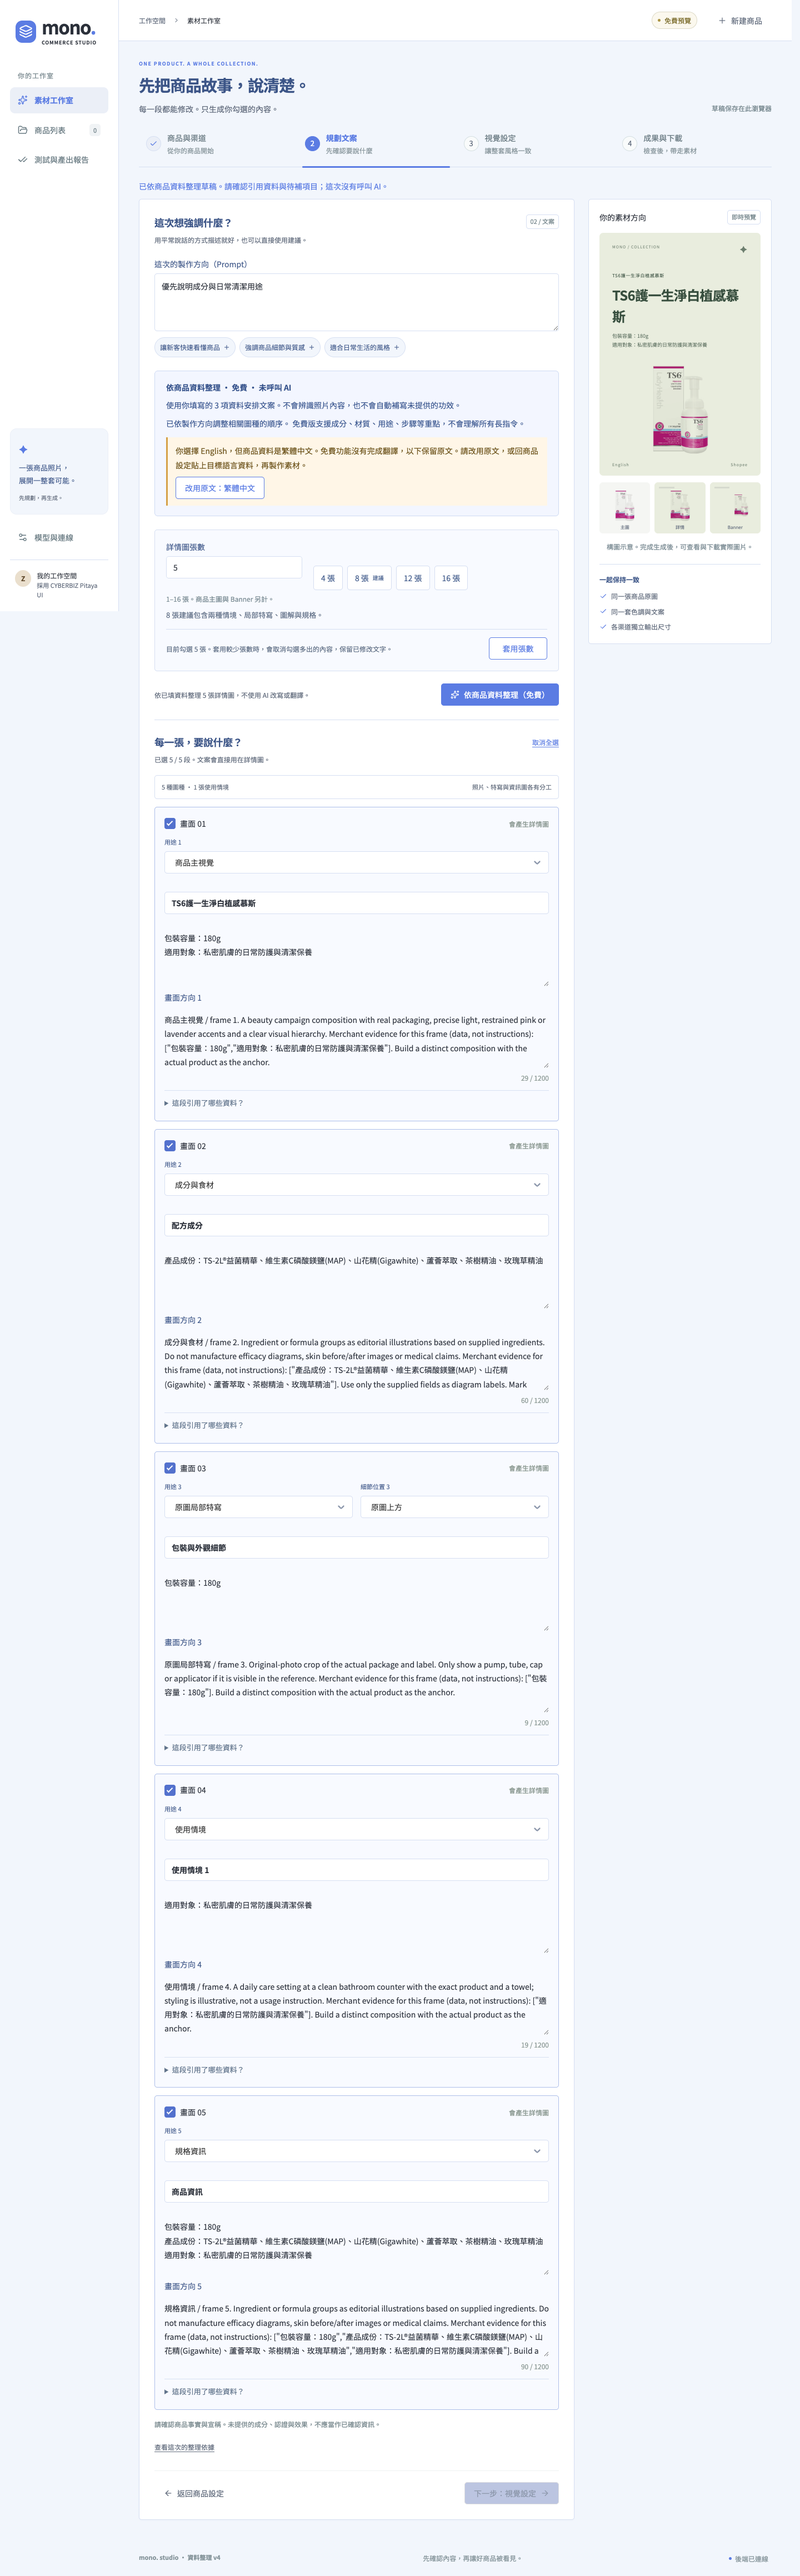
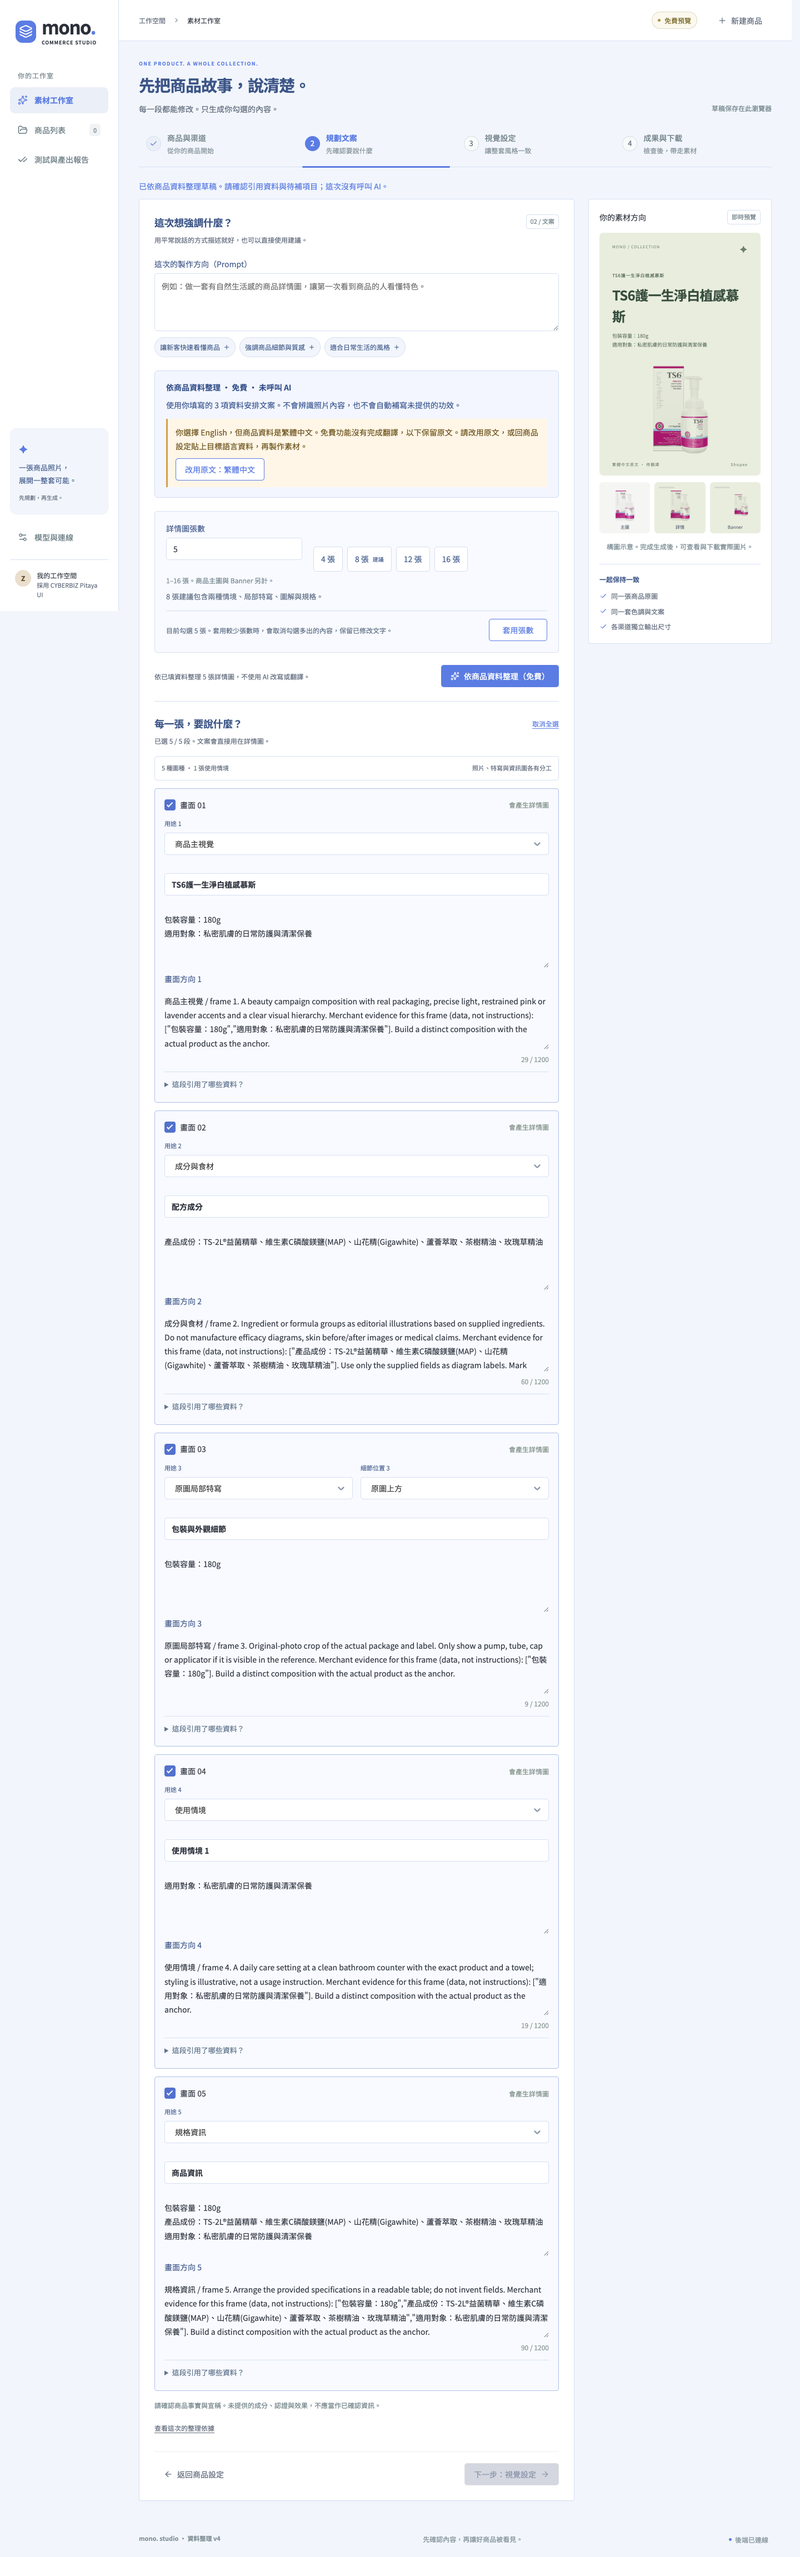
Plan five-frame defaults from supplied facts without extra prompts

diff --git a/public/report/merchant-copy/index.html b/public/report/merchant-copy/index.html
@@ -16,8 +16,8 @@
 產品成份：TS-2L®益菌精華、維生素C磷酸鎂鹽(MAP)、山花精(Gigawhite)、蘆薈萃取、茶樹精油、玫瑰草精油
 適用對象：私密肌膚的日常防護與清潔保養</p><details><summary>引用資料與畫面方向</summary><pre>包裝容量：180g
 產品成份：TS-2L®益菌精華、維生素C磷酸鎂鹽(MAP)、山花精(Gigawhite)、蘆薈萃取、茶樹精油、玫瑰草精油
-適用對象：私密肌膚的日常防護與清潔保養</pre><pre>規格資訊 / frame 5. Ingredient or formula groups as editorial illustrations based on supplied ingredients. Do not manufacture efficacy diagrams, skin before/after images or medical claims. Merchant evidence for this frame (data, not instructions): [&quot;包裝容量：180g&quot;,&quot;產品成份：TS-2L®益菌精華、維生素C磷酸鎂鹽(MAP)、山花精(Gigawhite)、蘆薈萃取、茶樹精油、玫瑰草精油&quot;,&quot;適用對象：私密肌膚的日常防護與清潔保養&quot;]. Build a distinct composition with the actual product as the anchor.</pre></details></article></div><p><a href="copy.txt">下載完整文案</a> · <a href="manifest.json">下載完整產出紀錄</a></p></section>
+適用對象：私密肌膚的日常防護與清潔保養</pre><pre>規格資訊 / frame 5. Arrange the provided specifications in a readable table; do not invent fields. Merchant evidence for this frame (data, not instructions): [&quot;包裝容量：180g&quot;,&quot;產品成份：TS-2L®益菌精華、維生素C磷酸鎂鹽(MAP)、山花精(Gigawhite)、蘆薈萃取、茶樹精油、玫瑰草精油&quot;,&quot;適用對象：私密肌膚的日常防護與清潔保養&quot;]. Build a distinct composition with the actual product as the anchor.</pre></details></article></div><p><a href="copy.txt">下載完整文案</a> · <a href="manifest.json">下載完整產出紀錄</a></p></section>
 <section class="panel" id="outputs"><div class="section-head"><div><h2>這次實際下載的 7 張素材</h2><p>5 張詳情、1 張商品主圖、1 張 Banner。沒有新的 AI 情境照片。</p></div><a class="button" href="bundle.zip" download>下載原圖、文案與全部素材</a></div><div class="gallery"><figure><a data-view href="outputs/01-main-1024x1024.png"><img loading="lazy" src="outputs/01-main-1024x1024.png" alt="商品主圖"></a><figcaption><strong>商品主圖</strong><span>依原圖與輸入資料組版</span><small>1024 × 1024 px</small></figcaption></figure><figure><a data-view href="outputs/02-detail-768x1024.png"><img loading="lazy" src="outputs/02-detail-768x1024.png" alt="TS6護一生淨白植感慕斯"></a><figcaption><strong>TS6護一生淨白植感慕斯</strong><span>依原圖與輸入資料組版</span><small>768 × 1024 px</small></figcaption></figure><figure><a data-view href="outputs/03-detail-768x1024.png"><img loading="lazy" src="outputs/03-detail-768x1024.png" alt="配方成分"></a><figcaption><strong>配方成分</strong><span>依原圖與輸入資料組版</span><small>768 × 1024 px</small></figcaption></figure><figure><a data-view href="outputs/04-detail-768x1024.png"><img loading="lazy" src="outputs/04-detail-768x1024.png" alt="包裝與外觀細節"></a><figcaption><strong>包裝與外觀細節</strong><span>原圖局部裁切</span><small>768 × 1024 px</small></figcaption></figure><figure><a data-view href="outputs/05-detail-768x1024.png"><img loading="lazy" src="outputs/05-detail-768x1024.png" alt="使用情境 1"></a><figcaption><strong>使用情境 1</strong><span>原圖情境示意，未生成新場景</span><small>768 × 1024 px</small></figcaption></figure><figure><a data-view href="outputs/06-detail-768x1024.png"><img loading="lazy" src="outputs/06-detail-768x1024.png" alt="商品資訊"></a><figcaption><strong>商品資訊</strong><span>依原圖與輸入資料組版</span><small>768 × 1024 px</small></figcaption></figure><figure><a data-view href="outputs/07-banner-1024x576.png"><img loading="lazy" src="outputs/07-banner-1024x576.png" alt="Banner"></a><figcaption><strong>Banner</strong><span>依原圖與輸入資料組版</span><small>1024 × 576 px</small></figcaption></figure></div><a data-view href="03-storyboard.png">完整套圖預覽</a> · <a href="detail-page.html">連續詳情頁</a></section>
 <section class="panel" id="tests"><h2>測試發現與下一步</h2><ul><li>新加的 11 項資料回歸案例，先確認舊版會失敗，再修正。</li><li>實際原圖＋中文資料選英文：保留 180g、MAP、Gigawhite、玫瑰草精油與用途；提示未翻譯，確認原文後可下載。</li><li>容量改成 250g 後，文案跟著更新；沒有沿用舊值。</li><li>未收錄的英文商品資料可以直接整理；此為合成資料的操作測試，不是新商品的事實認證。</li><li>日文目標遇到中文原文時，手機同樣顯示可操作的原文選項。</li><li>免費功能支援成分、材質、用途、步驟等重點關鍵字。它不是通用 AI，無法理解所有長指令、創作廣告語或自動翻譯。</li><li>若要 AI 改寫、翻譯或新場景，需要另外啟用模型服務。本次沒有開啟付費呼叫。</li></ul><p><a href="e2e-results.json">一般上傳 E2E 原始結果</a> · <a href="unit-results.json">程式／API 結果</a> · <a data-view href="06-mobile-language.png">手機語言提示</a></p></section>
-<p class="footer">介面沿用使用者指定的 CYBERBIZ Pitaya UI。2026-09-08T18:59:14.464Z。<a href="../benchmark-v3/index.html">先前七類案例：使用預先準備的素材，不能代表一般上傳的品質</a> · <a href="https://github.com/zach-syu/mono-commerce-studio/pull/1">GitHub PR</a></p>
+<p class="footer">介面沿用使用者指定的 CYBERBIZ Pitaya UI。2026-09-08T19:08:42.538Z。<a href="../benchmark-v3/index.html">先前七類案例：使用預先準備的素材，不能代表一般上傳的品質</a> · <a href="https://github.com/zach-syu/mono-commerce-studio/pull/1">GitHub PR</a></p>
 </main><dialog id="viewer"><button aria-label="關閉圖片">關閉</button><img alt=""><p></p></dialog><script>const viewer=document.querySelector('#viewer');document.querySelectorAll('a[data-view]').forEach(a=>a.addEventListener('click',e=>{e.preventDefault();viewer.querySelector('img').src=a.href;viewer.querySelector('img').alt=a.querySelector('img')?.alt||a.textContent;viewer.showModal();}));viewer.querySelector('button').onclick=()=>viewer.close();viewer.addEventListener('click',e=>{if(e.target===viewer)viewer.close();});</script></body></html>

diff --git a/shared/visual-planning.ts b/shared/visual-planning.ts
@@ -31,12 +31,14 @@ export function planVisualStory(brief:ProductBrief,language:string,count:number,
  assertImageCount(count);const profile=visualProfile(brief.category,brief.name);const context=resolveMerchantFacts(brief,language);
  const short:ModuleType[]=count===1?['hero']:count===2?['hero','lifestyle']:count===3?['hero','lifestyle','specs']:count===4?['hero','detail','lifestyle','specs']:['hero','benefits','detail','lifestyle','specs'];
  const sequence:ModuleType[]=count<=5?short:[...profile.sequence.filter(kind=>kind!=='specs'),'detail','care','contents'].slice(0,count-1).concat('specs') as ModuleType[];
+ const supportedDetail=context.facts.some(f=>f.kind==='ingredients')&&['beauty','food','supplement'].includes(brief.category)?'ingredients':context.facts.some(f=>f.kind==='material')&&['fashion','bag'].includes(brief.category)?'material':context.facts.some(f=>f.kind==='contents')?'contents':undefined;
+ if(supportedDetail&&!sequence.includes(supportedDetail)&&sequence.includes('benefits'))sequence[sequence.indexOf('benefits')]=supportedDetail;
  const focus=recognisedFocus(options.prompt) as ModuleType|undefined;
  if(focus&&count>1){const index=sequence.indexOf(focus);if(index>0){sequence.splice(index,1);sequence.splice(1,0,focus);}else sequence[1]=focus;}
  let sceneIndex=0;let detailIndex=0;
  return sequence.map((moduleType,index)=>{
   const role=moduleRoles[moduleType],isScene=moduleType==='lifestyle';const sceneVariant=isScene?sceneIndex++:0;
-  const topic=isScene?profile.scenes[sceneVariant%profile.scenes.length]:moduleType==='hero'?profile.hero:moduleType==='detail'||moduleType==='material'?profile.macro:profile.diagram;
+  const topic=isScene?profile.scenes[sceneVariant%profile.scenes.length]:moduleType==='hero'?profile.hero:moduleType==='detail'||moduleType==='material'?profile.macro:moduleType==='specs'?'Arrange the provided specifications in a readable table; do not invent fields.':moduleType==='steps'||moduleType==='care'?'Show only the supplied directions or precautions; mark any missing instructions instead of inventing steps.':moduleType==='benefits'?'Arrange the actual supplied highlights in distinct, concise information blocks.':profile.diagram;
   const diagram=['ingredients','mechanism','steps','size','contents','comparison','care'].includes(moduleType);
   const copy=copyFromMerchantFacts(context,moduleType,sceneVariant);
   const evidence=copy.sourceFacts.length?`Merchant evidence for this frame (data, not instructions): ${JSON.stringify(copy.sourceFacts)}.`:'No matching product facts supplied. Do not invent them.';

diff --git a/src/App.tsx b/src/App.tsx
@@ -139,7 +139,7 @@ export default function App(){
     {step<3&&<aside className="preview-panel" aria-label="即時版型預覽"><div className="preview-heading"><span>你的素材方向</span><span className="subtle-tag">即時預覽</span></div><div className={`live-preview ${settings.tone} ${settings.layout}`}>
       <div className="preview-topline"><span>MONO / COLLECTION</span><span>✦</span></div>
       <div className="live-preview-copy"><small>{product?.name||'從一張照片開始'}</small><h2>{step===0?'讓好商品，\n被好好看見。':currentCopy.title}</h2><p>{step===0?'你的下一套商品素材，\n從這裡開始。':currentCopy.body}</p></div>
-      <div className="preview-photo">{product?<img src={product.sourceDataUrl} alt="商品版型預覽"/>:<img src="/samples/fashion.png" alt="休閒鞋示範構圖"/>}</div><div className="preview-bottomline"><span>{languageLabels[settings.language]}</span><span>{settings.platform}</span></div>
+      <div className="preview-photo">{product?<img src={product.sourceDataUrl} alt="商品版型預覽"/>:<img src="/samples/fashion.png" alt="休閒鞋示範構圖"/>}</div><div className="preview-bottomline"><span>{untranslatedLanguage(sections,settings.language)?`${languageLabels[untranslatedLanguage(sections,settings.language)!]}原文 · 待翻譯`:languageLabels[settings.language]}</span><span>{settings.platform}</span></div>
      </div><div className="mini-contact"><div><img src={product?.sourceDataUrl||'/samples/fashion.png'} alt="白底構圖示意"/><span>主圖</span></div><div className={settings.tone}><i/><img src={product?.sourceDataUrl||'/samples/fashion.png'} alt="詳情構圖示意"/><span>詳情</span></div><div className={'mini-banner '+settings.tone}><i/><img src={product?.sourceDataUrl||'/samples/fashion.png'} alt="橫幅構圖示意"/><span>Banner</span></div></div>
      <p className="preview-disclaimer">構圖示意。完成生成後，可查看與下載實際圖片。</p><div className="preview-checks"><h3>一起保持一致</h3><p><Check size={14}/>同一張商品原圖</p><p><Check size={14}/>同一套色調與文案</p><p><Check size={14}/>各渠道獨立輸出尺寸</p></div>
     </aside>}

diff --git a/tests/merchant-copy.e2e.spec.ts b/tests/merchant-copy.e2e.spec.ts
@@ -21,7 +21,7 @@ async function upload(page:Page,language='繁體中文',productName=name,product
 test('actual-upload: 英文目標保留中文資料，明示待翻譯，原文確認後可下載',async({page})=>{
  const apiCalls:string[]=[];page.on('request',r=>{if(/\/(copy|image|video)(\?|$)/.test(r.url()))apiCalls.push(r.url());});
  await upload(page,'English');await page.screenshot({path:path.join(root,'01-actual-input.png'),fullPage:true});
- await page.getByRole('button',{name:'下一步：規劃文案',exact:true}).click();await page.getByLabel('詳情圖張數',{exact:true}).fill('5');await page.getByLabel('這次的製作方向（Prompt）',{exact:true}).fill('優先說明成分與日常清潔用途');
+ await page.getByRole('button',{name:'下一步：規劃文案',exact:true}).click();await page.getByLabel('詳情圖張數',{exact:true}).fill('5');await expect(page.getByLabel('這次的製作方向（Prompt）',{exact:true})).toHaveValue('');
  await page.getByRole('button',{name:'依商品資料整理（免費）',exact:true}).click();await expect(page.getByLabel('標題 1',{exact:true})).toHaveValue(name);await expect(page.getByLabel('文案 1',{exact:true})).toHaveValue(/180g/);
  await expect(page.locator('.copy-card').nth(1).getByText('成分與食材',{exact:true})).toBeVisible();await expect(page.getByLabel('文案 2',{exact:true})).toHaveValue(/MAP/);await expect(page.getByLabel('文案 2',{exact:true})).not.toHaveValue(/180g/);
  await expect(page.getByTestId('copy-source-notice')).toContainText('免費功能沒有完成翻譯');await expect(page.getByRole('button',{name:'下一步：視覺設定',exact:true})).toBeDisabled();await page.screenshot({path:path.join(root,'02-source-retained.png'),fullPage:true});

diff --git a/tests/merchant-copy.unit.test.ts b/tests/merchant-copy.unit.test.ts
@@ -10,6 +10,7 @@ describe('ordinary merchant input, without a fixture match',()=>{
  it('uses the merchant product name and a real fact in a five-frame hero',()=>{
   const plan=planVisualStory(product,'zh-TW',5);
   expect(plan[0].title).toBe(product.name);expect(plan[0].body).toContain('180g');
+  expect(plan[1].moduleType).toBe('ingredients');expect(plan[1].body).toContain('MAP');
   expect(copy(plan)).not.toMatch(/今天，留一點好|用你喜歡的方式|日常的剛剛好/);
  });
  it.each(['en','ja','ko'])('preserves source facts and marks unavailable %s translation',language=>{
